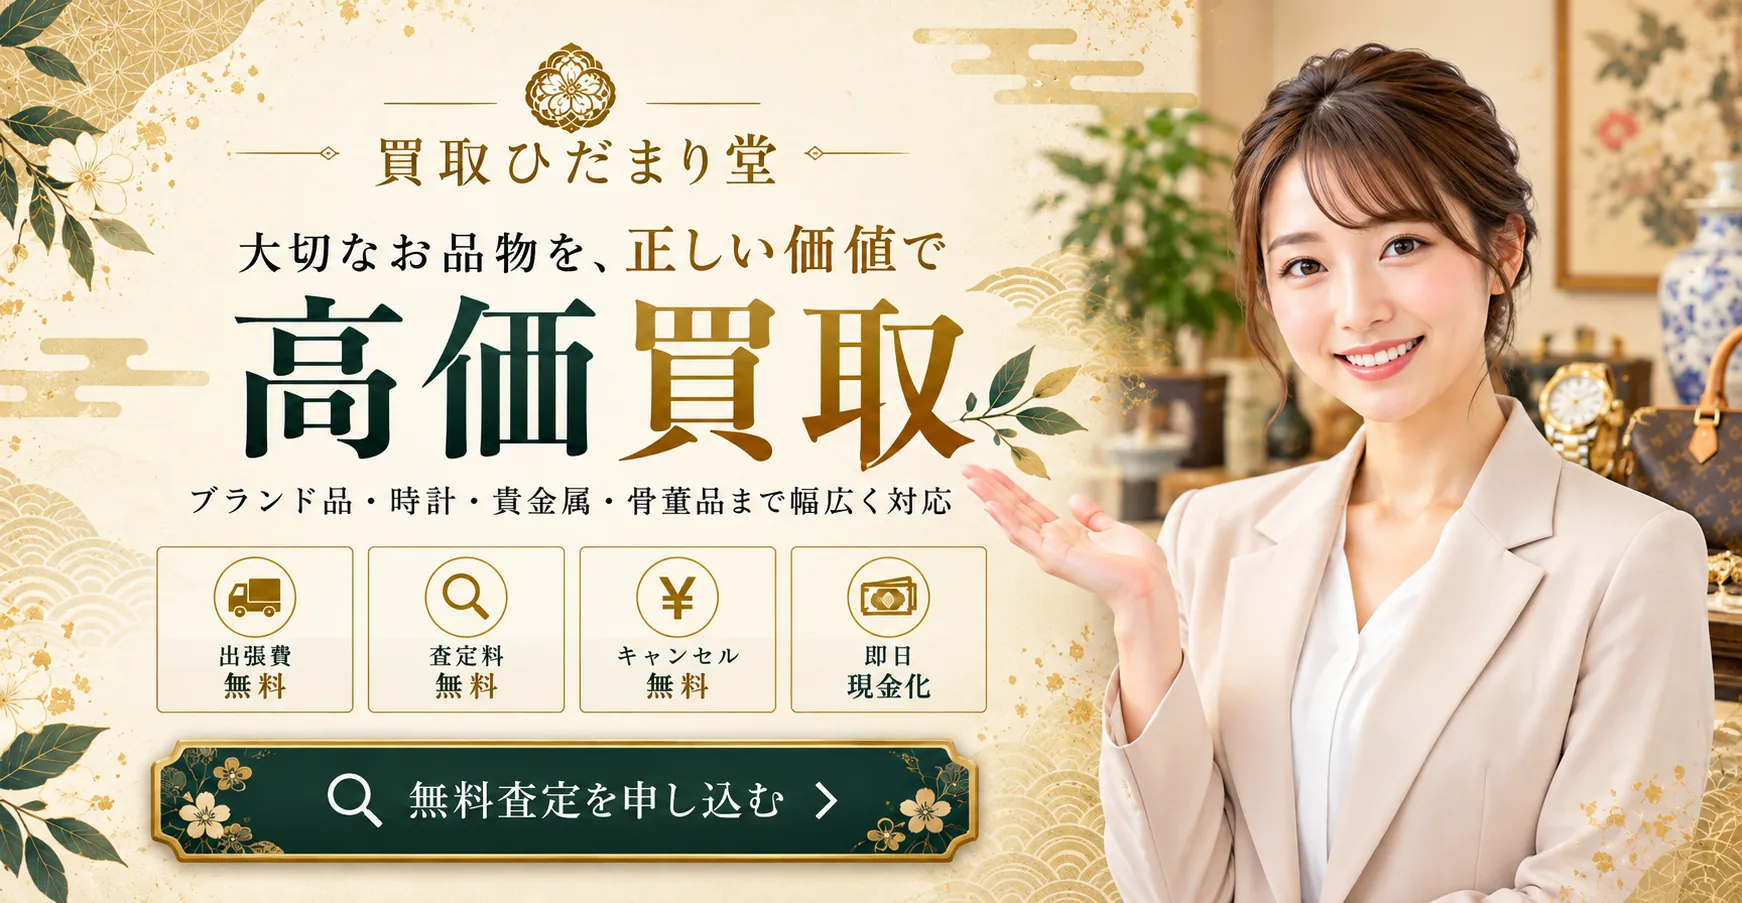
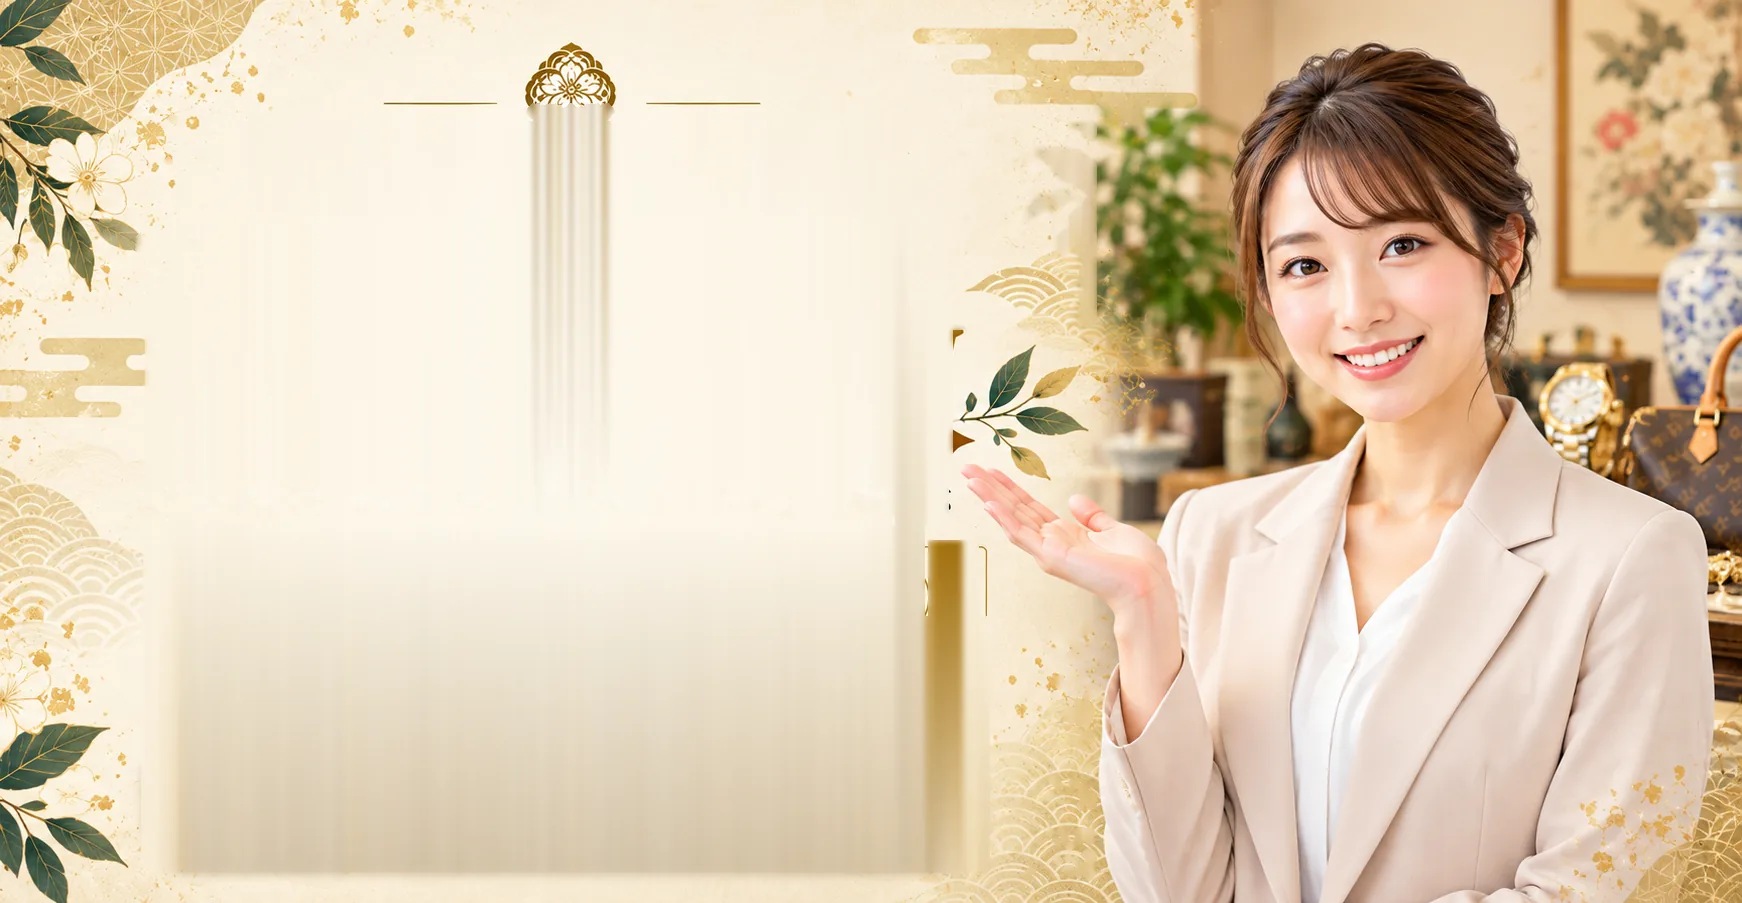
Remove baked-in text from hero image

diff --git a/public/images/SIZES.md b/public/images/SIZES.md
@@ -24,13 +24,14 @@ Regenerate this table with: `node scripts/image-info.mjs`
 | public/images/footer-btn_sp.webp             | 1144 × 1311   | 160.4    |
 | public/images/footer-btn.webp                | 2139 × 423    | 114.8    |
 | public/images/hero-mobile.svg                | ? × ?         | 0.5      |
-| public/images/hero-pc.webp                   | 1742 × 903    | 157.6    |
+| public/images/hero-pc.webp                   | 1742 × 903    | 96.9     |
 | public/images/hero-sp.webp                   | 864 × 1821    | 171.8    |
 | public/images/hero.svg                       | ? × ?         | 0.5      |
 | public/images/icon-line.webp                 | 411 × 413     | 36.3     |
 | public/images/icon-phone.svg                 | ? × ?         | 0.5      |
 | public/images/icon-web.svg                   | ? × ?         | 0.5      |
 | public/images/icon-web.webp                  | 373 × 262     | 16.8     |
+| public/images/item-01.png                    | 279 × 188     | 59.3     |
 | public/images/item-01.svg                    | ? × ?         | 0.5      |
 | public/images/item-01.webp                   | 279 × 188     | 10.2     |
 | public/images/item-02.svg                    | ? × ?         | 0.5      |
@@ -51,32 +52,6 @@ Regenerate this table with: `node scripts/image-info.mjs`
 | public/images/logo.svg                       | ? × ?         | 0.5      |
 | public/images/logo.webp                      | 188 × 114     | 6.7      |
 | public/images/nagashima_1200.webp            | 1200 × 600    | 45.8     |
-| public/images/New folder/cta_title.png       | 2170 × 725    | 875.6    |
-| public/images/New folder/flow-01.png         | 1536 × 1024   | 1841.7   |
-| public/images/New folder/flow-02.png         | 1448 × 1086   | 1859.2   |
-| public/images/New folder/flow-03.png         | 1536 × 1024   | 1921.2   |
-| public/images/New folder/footer-banner-sp.png | 1024 × 1536   | 2705.5   |
-| public/images/New folder/footer-banner.png   | 1774 × 887    | 2667.9   |
-| public/images/New folder/footer-btn_sp.png   | 1172 × 1342   | 2346.5   |
-| public/images/New folder/footer-btn.png      | 2172 × 724    | 1737.5   |
-| public/images/New folder/hero-pc.png         | 1742 × 903    | 2232.4   |
-| public/images/New folder/hero-sp.png         | 864 × 1821    | 2286.2   |
-| public/images/New folder/item-01.jpg         | 1258 × 848    | 536.5    |
-| public/images/New folder/item-02.png         | 960 × 960     | 28.2     |
-| public/images/New folder/item-03.jpg         | 848 × 1237    | 584.6    |
-| public/images/New folder/item-04.jpg         | 1024 × 1031   | 406.6    |
-| public/images/New folder/item-05.jpg         | 924 × 1152    | 393.3    |
-| public/images/New folder/item-06.jpg         | 1059 × 1008   | 716.0    |
-| public/images/New folder/item-07.jpg         | 912 × 1177    | 507.6    |
-| public/images/New folder/item-08.png         | 1572 × 1001   | 1867.2   |
-| public/images/New folder/logo.png            | 1610 × 977    | 1502.7   |
-| public/images/New folder/price-01.png        | 1463 × 1075   | 2153.3   |
-| public/images/New folder/price-02.png        | 1463 × 1075   | 2260.1   |
-| public/images/New folder/price-03.jpg        | 1198 × 880    | 543.8    |
-| public/images/New folder/price-04.jpg        | 1408 × 768    | 298.2    |
-| public/images/New folder/price-title-head.png | 2170 × 725    | 753.9    |
-| public/images/New folder/reason-01.png       | 1536 × 1024   | 1957.4   |
-| public/images/New folder/reason-02.png       | 1536 × 1024   | 1910.1   |
 | public/images/price-01.svg                   | ? × ?         | 0.5      |
 | public/images/price-01.webp                  | 640 × 470     | 36.4     |
 | public/images/price-02.svg                   | ? × ?         | 0.5      |
